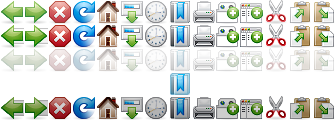
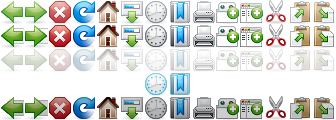
bug 352200 - pinstripe cleanup, images by Radiant Core, CSS by me

diff --git a/browser/themes/pinstripe/browser/browser.css b/browser/themes/pinstripe/browser/browser.css
@@ -280,6 +280,8 @@ toolbar:not([mode="text"]) #forward-button .toolbarbutton-menubutton-button {
   -moz-binding: url('chrome://global/content/bindings/toolbarbutton.xml#toolbarbutton-image');
   margin: 0;
   padding: 0;
+  border-left: 0;
+  border-right: 0;
 }
 
 toolbar:not([mode="text"]) #back-button .allowevents-box,
@@ -446,7 +448,7 @@ toolbar[mode="icons"] #forward-button .toolbarbutton-text-box {
 #history-button {
   -moz-image-region: rect(0px, 168px, 24px, 144px);
 }
-#history-button:hover:active {
+#history-button:hover {
   -moz-image-region: rect(24px, 168px, 48px, 144px);
 }
 #history-button[disabled="true"] {
@@ -592,6 +594,7 @@ toolbar[iconsize="small"] #back-button[open="true"] {
 /* ----- SMALL BACK BUTTON DROPMARKER ----- */
 
 toolbar[iconsize="small"] #back-button .toolbarbutton-menubutton-dropmarker {
+   margin-top: 0px;
   list-style-image: url("chrome://browser/skin/dropmark-nav-small.png");
   -moz-image-region: rect(0px, 14px, 16px, 0px);
 }
@@ -631,7 +634,8 @@ toolbar[iconsize="small"] #forward-button[open="true"] {
 
 /* ----- SMALL FORWARD BUTTON DROPMARKER ----- */
 
-toolbar[iconsize="small"] #forward-button .toolbarbutton-menubutton-dropmarker {  
+toolbar[iconsize="small"] #forward-button .toolbarbutton-menubutton-dropmarker { 
+  margin-top: 0px; 
   list-style-image: url("chrome://browser/skin/dropmark-nav-small.png");
   -moz-image-region: rect(0px, 14px, 16px, 0px);
 }
@@ -868,25 +872,27 @@ toolbar[iconsize="small"] #paste-button:hover:active {
 }
 
 #urlbar[level="high"] #lock-icon {
+  margin: -1px;
   list-style-image: url("chrome://browser/skin/Secure.png");
-  -moz-image-region: rect(0px, 16px, 16px, 0px);
+  -moz-image-region: rect(0px, 18px, 18px, 0px);
 }
 #urlbar[level="high"] #lock-icon:hover {
-  -moz-image-region: rect(16px, 16px, 32px, 0px);
+  -moz-image-region: rect(18px, 18px, 36px, 0px);
 }
 #urlbar[level="high"] #lock-icon:active {
-  -moz-image-region: rect(32px, 16px, 48px, 0px);
+  -moz-image-region: rect(36px, 18px, 54px, 0px);
 }
 
 #urlbar[level="low"] #lock-icon {
+  margin: -1px;
   list-style-image: url("chrome://browser/skin/Secure.png");
-  -moz-image-region: rect(0px, 16px, 16px, 0px);
+  -moz-image-region: rect(0px, 18px, 18px, 0px);
 }
 #urlbar[level="low"] #lock-icon:hover {
-  -moz-image-region: rect(16px, 16px, 32px, 0px);
+  -moz-image-region: rect(18px, 18px, 36px, 0px);
 }
 #urlbar[level="low"] #lock-icon:active {
-  -moz-image-region: rect(32px, 16px, 48px, 0px);
+  -moz-image-region: rect(36px, 18px, 54px, 0px);
 }
 
 #urlbar[level="broken"] #lock-icon {
@@ -1083,7 +1089,7 @@ sidebarheader > .tabs-closebutton > .toolbarbutton-text {
 #feed-button, #feed-button > .button-box,
 #feed-button:hover:active > .button-box {
   padding: 0px;
-  margin: 0px;
+  margin: -1px;
   border: 0px; 
   background-color: transparent;
 }
@@ -1102,13 +1108,13 @@ sidebarheader > .tabs-closebutton > .toolbarbutton-text {
 
 #feed-button[feeds] {
   list-style-image: url("chrome://browser/skin/livemark-item.png");
-  -moz-image-region: rect(1px, 36px, 17px, 18px);
+  -moz-image-region: rect(0px, 36px, 18px, 18px);
 }
 #feed-button[feeds]:hover {
-  -moz-image-region: rect(19px, 36px, 35px, 18px);
+  -moz-image-region: rect(18px, 36px, 36px, 18px);
 }
 #feed-button[feeds]:active {
-  -moz-image-region: rect(55px, 36px, 71px, 18px);
+  -moz-image-region: rect(54px, 36px, 72px, 18px);
 }
 
 /* ----- THROBBER ----- */
